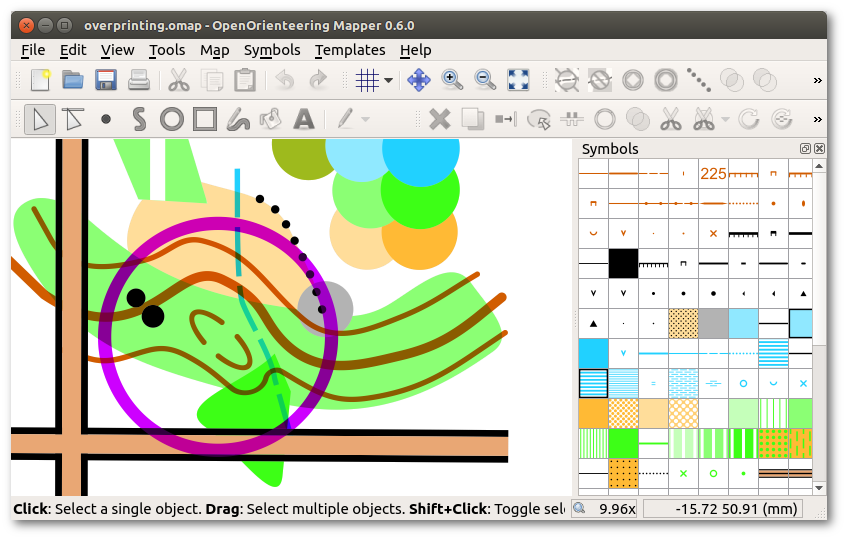
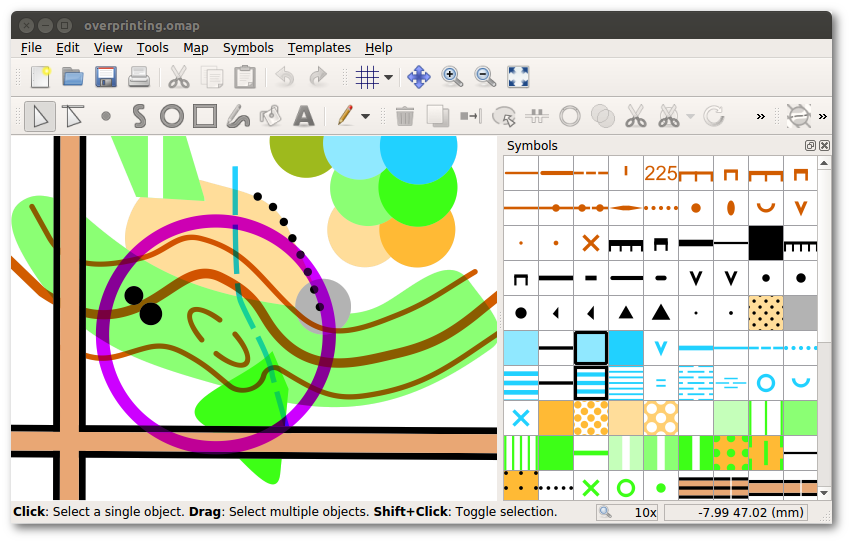
Squashed 'doc/manual/pages/' changes from 7a1d2d3..5292aee
5292aee Fix main window screenshot shadow
0638d41 Move paint-on-template doc to Android app page
7a3652b Update Android storage page
f03189c Update main window screenshot

git-subtree-dir: doc/manual/pages
git-subtree-split: 5292aee34c9f4cc994f045b99b07ddb59eb80a1a

Changed region(s): [[0.0, 0.0297, 0.9835, 0.9796], [0.9527, 0.1484, 0.9835, 0.1781], [0.0, 0.475, 0.0307, 0.5046]]

diff --git a/android-pc.md b/android-pc.md
@@ -23,21 +23,3 @@ In this case, the easiest way is to first create a new map with the same symbol 
 After that, load the existing map as template in the new map. Then use the alignment tools for templates to move the existing map to match with the new georeferenced template. When you are finished, import the existing map template into the new map file using the corresponding action in the template dock widget, and you should be done.
 
 Attention: especially for old maps, the whole existing map may be locally distorted. In this case it will not be possible to match the old map and the georeferenced template and the only way to georeference the map is to do a tedious undistortion. Mapper does not provide a tool for this.
-
-
-## Preparing for free-hand scribbling
-
-![ ](../mapper-images/pencil.png)
-
-Mapper supports free-hand drawing onto image templates using the tool with the pencil icon shown above. This is especially convenient to use in case you want to do only (or mostly) drafting while you are in the field, and draw the final version of the map at home on a PC. It has the advantage of being quick and it only alters the template you draw on, i.e. it does not create new map objects, so Mapper's map display does not become slower. This may be relevant on mobile devices because of little processing power or because of battery runtime.
-
-If you want to use this functionality, you should best load a separate, initially transparent image template in png format for it. Suited images can be downloaded here:
-
- - [size 1024x1024](attachment/scribble_1024.png)
- - [size 2048x2048](attachment/scribble_2048.png)
-
-The images contain a red border, but are transparent everywhere else. After downloading a file, load it in your map file and move it so it covers the area you want to draw scribbles on. Make sure that the image resolution of the template is good enough by drawing a test scribble. If not, you need to scale it down using the template settings. You may also create multiple copies of the file and load them as separate templates.
-
-Direct drawing onto base map images is NOT recommended because you will not be able to use the eraser without also erasing the base map and because these images usually are in the lossy JPEG format which will introduce visible artifacts when saving the file and loading it again.
-
-Note that to view the scribbles on a PC after creating them on a mobile device, you need to transfer not only the map file, but also the affected image template file(s) back to the PC, as the scribbles are saved directly in the image files.

diff --git a/android-storage.md b/android-storage.md
@@ -27,10 +27,25 @@ OpenOrienteering Mapper for Android will create these folders when they are miss
 You can transfer files from and to a PC via a USB cable. Android supports multiple file transfer protocols.
 
 - MTP is the preferred method now. There is hardly any interference for apps while the device is connected to the PC.
-  Via MTP, Android will only show files which are known to its Media Scanner. If you cannot find a file such a recorded GPX track, a reboot of the device could trigger a rescan.
+  Via MTP, Android will only show files which are known to its Media Scanner.  
 
 - Mass Storage makes the storage unavailable for apps for the duration of the connection with the PC.
   (Android also needs to terminate apps which are stored on the volume which is provided as mass storage.)
   Unlike MTP, mass storage does not depend on the media scanner, so all files are always visible.
 
-In some cases, users suffered from files being damaged during transfer. This can be worked around by choosing another method for file transfer. Remember to keep backups and to verify transferred files.
+Note that after mapping, you might want to transfer back not only the modified map but also GPX tracks and templates you painted on.
+
+
+## Data loss prevention and recovery
+
+*Remember to keep backups and to verify transferred files.*
+
+If a file appears to be corrupted after transfer back to PC, or you cannot find
+a new file such as a recorded GPX track, a reboot of the Android device could
+solve the issue. After the reboot, Android's media scanner will take notice of
+new files and changed file sizes. However, Mapper v0.8.3 is expected to bring a
+solution to this issue.
+
+In some situations, the Mapper app might not be able to properly save data and
+shutdown as quickly as requested by the Android operating system, for example
+when you start other apps or when the device runs out of power.

diff --git a/android-app.md b/android-app.md
@@ -127,9 +127,28 @@ Note that the temporary trace is not saved in the map.
 This removes the temporay traces and position markers. (They will also be discarded when closing the map file.)
 
 
+#### ![ ](../mapper-images/pencil.png) Paint on template
+
+By this tool, mapper supports free-hand drawing onto image templates. There is
+a small selection of colors for drawing. White is used for corrections to
+previous drawings. There is also a dedicated undo/redo feature.
+
+This tool is an convenient alternative when you want to do only (or mostly)
+drafting in the field, but draw the final version of the map at home on a PC.
+It does not create new map objects but only alters the template you draw on.
+This may help to deal with low processing power or battery runtime on mobile
+devices.
+
+Please note that direct drawing onto base map images is *not* recommended:
+First, the eraser tool would also erase the base map. Second, these images
+usually are in the lossy JPEG format which will introduce visible artifacts
+when saving the file and loading it repeatedly.
+
+
 #### ![ ](../mapper-images/paint-on-template-settings.png) Paint-on-template settings
 
-This button allows to select the active image for scribbling (using the symbol above it).
+This button allows to select an image template for scribbling,
+or to add a new one covering the vicinity of your position.
 
 
 -----
